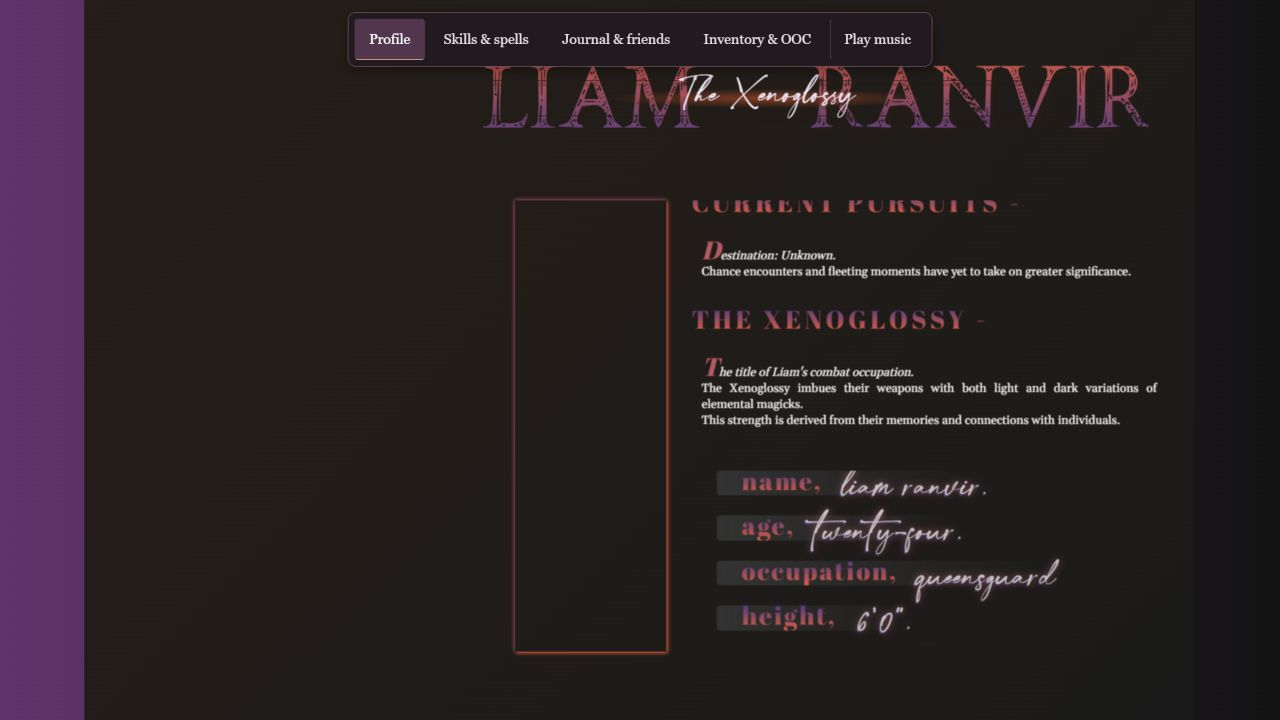
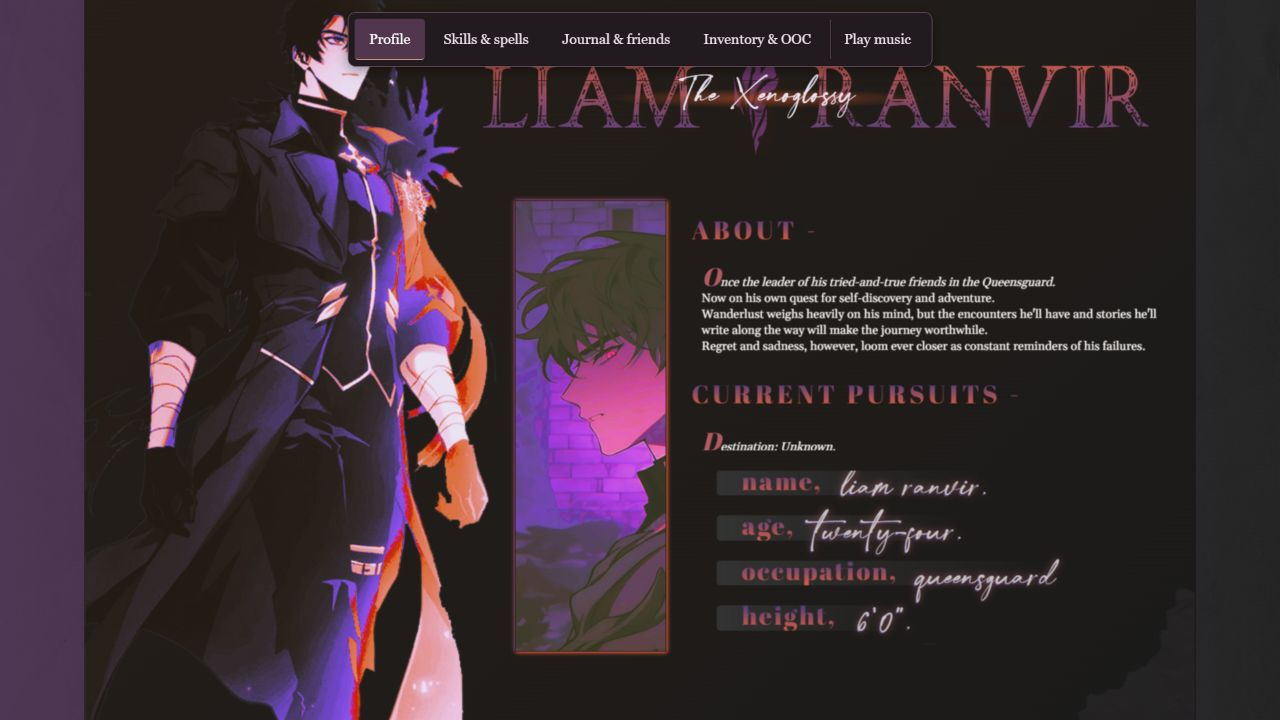
Polish portfolio presentation and update renamed repository links

diff --git a/ranvir/CASE-STUDY.md b/ranvir/CASE-STUDY.md
@@ -2,9 +2,11 @@
 
 **Personal project · UI design and front-end development · HTML, CSS, JavaScript**
 
-[View live project](https://stevenkhuu91.github.io/front-end-projects/ranvir/) · [Project overview](README.md) · [Source code](index.html)
+[View live project](https://stevenkhuu91.github.io/liam-ranvir-profile/ranvir/) · [Project overview](README.md) · [Source code](index.html)
 
 ![Ranvir's desktop profile with layered artwork and a persistent section menu](docs/images/desktop-profile.png)
+
+[Take a short visual walkthrough](docs/WALKTHROUGH.md) to see the current interface in use.
 
 ## Context
 
@@ -66,7 +68,7 @@ The original single-file implementation was separated into HTML, CSS, and JavaSc
 
 ## Before and after
 
-These screenshots compare real repository revisions at the same 1280 × 720 desktop viewport. External artwork did not render in this local preview session; the images document the interface and text changes, not the complete art presentation shown above. Historical screenshots retain the wording from their source revisions.
+These screenshots compare real repository revisions at the same 1280 × 720 desktop viewport. The historical local previews omit external artwork; the updated after screenshots were captured from the live site with artwork visible on September 17, 2026. Missing artwork in the before images is a preview limitation, not a design change. Historical screenshots retain the wording from their source revisions.
 
 ### Navigation: visible choices instead of discovery by scrolling
 
@@ -78,7 +80,7 @@ These screenshots compare real repository revisions at the same 1280 × 720 desk
 
 ![After: persistent section menu above the profile](docs/images/navigation-after.png)
 
-Before source: [6b4d348](https://github.com/StevenKhuu91/front-end-projects/commit/6b4d348). After: the desktop accessibility revision documented below. This comparison records an implementation change, not a measured improvement from user testing.
+Before source: [6b4d348](https://github.com/StevenKhuu91/liam-ranvir-profile/commit/6b4d348). After: the live implementation at `ab1386c`, captured September 17, 2026. This comparison records an implementation change, not a measured improvement from user testing.
 
 ### Readability: separate headings from body copy
 
@@ -90,7 +92,7 @@ Before source: [6b4d348](https://github.com/StevenKhuu91/front-end-projects/comm
 
 ![After: distinct headings and readable descriptions](docs/images/readability-after.png)
 
-Before source: [a956555](https://github.com/StevenKhuu91/front-end-projects/commit/a956555). After: the desktop accessibility revision documented below. These spacing improvements were made in earlier revisions; this documentation pass records their effect.
+Before source: [a956555](https://github.com/StevenKhuu91/liam-ranvir-profile/commit/a956555). After: the live implementation at `ab1386c`, captured September 17, 2026. These spacing improvements were made in earlier revisions; this documentation pass records their effect.
 
 ### Focused desktop accessibility follow-up
 
@@ -121,8 +123,7 @@ A trial of standards-mode HTML shifted the skills subtitle by about nine pixels.
 ## Remaining work
 
 - Observe a few desktop users finding a section, reading an ability, and switching friends; use those observations to identify remaining friction.
-- Extend the focused keyboard and contrast review to additional desktop browsers and a screen reader; reassess decorative gradient text if the visual design is revisited.
-- Complete source attribution for external artwork and music, and document any verified reuse permissions.
+- Reassess decorative gradient text if the visual design is revisited.
 - Review legacy CSS and rendering-mode dependencies carefully before modernizing them.
 
 A responsive redesign remains outside the current scope.

diff --git a/README.md b/README.md
@@ -1,9 +1,17 @@
-# Front End Projects
+# Liam Ranvir
 
-## Ranvir Character Profile
+**Character profile · UI design & front-end development · Personal project**
 
-A desktop character-profile website created for an online roleplaying community. It combines original character writing, layered visual design, horizontal navigation, and HTML, CSS, and vanilla JavaScript.
+![Ranvir's skills section with layered character artwork and persistent navigation](ranvir/docs/images/readability-after.png)
 
-**[View live project](https://stevenkhuu91.github.io/front-end-projects/ranvir/)** · **[Case study](ranvir/CASE-STUDY.md)** · **[Project overview and source](ranvir/README.md)**
+An expressive character profile for an online roleplaying community, built with HTML, CSS, and vanilla JavaScript. I combined original character writing with a layered visual interface, then refined navigation and readability while preserving its desktop composition.
 
-Designed for desktop viewing. My contributions are the character, narrative, layout, and website implementation; third-party artwork remains credited separately in the project overview.
+**My role:** Character and narrative, interface layout, and front-end implementation.
+
+**Design constraint:** Keep the fixed desktop composition intact while making the profile easier to explore.
+
+**[Read the case study →](ranvir/CASE-STUDY.md)**
+
+Explore the design decisions, before-and-after comparisons, validation, and lessons learned.
+
+[Try the desktop demo](https://stevenkhuu91.github.io/liam-ranvir-profile/ranvir/) · [View the visual walkthrough](ranvir/docs/WALKTHROUGH.md) · [Setup and source](ranvir/README.md)

diff --git a/ranvir/docs/WALKTHROUGH.md b/ranvir/docs/WALKTHROUGH.md
@@ -1,0 +1,25 @@
+# A quick look at Ranvir
+
+[Open the desktop demo](https://stevenkhuu91.github.io/liam-ranvir-profile/ranvir/) · [Read the full case study](../CASE-STUDY.md)
+
+## 1. Meet the character
+
+The profile combines a character introduction with layered imagery. Use the persistent menu to move between the four sections.
+
+![Profile introduction and section navigation](images/navigation-after.png)
+
+## 2. Explore an ability
+
+Choose **Skills & spells**. Scroll inside the description panel to read the abilities while the surrounding composition stays in place.
+
+![Skills section with artwork and separated headings and descriptions](images/readability-after.png)
+
+## 3. Meet the companions
+
+Choose **Journal & friends**. Eris appears initially; select Blix to switch the companion shown in the same frame.
+
+![Journal and the initially selected companion Eris](images/desktop-journal.png)
+
+Screenshots captured from the live desktop site at 1280 × 720 on September 17, 2026. External media and fonts can render differently between sessions.
+
+**What informed these choices?** The [case study](../CASE-STUDY.md) explains the original problem, design constraints, revisions, evidence, and lessons learned.

diff --git a/ranvir/README.md b/ranvir/README.md
@@ -6,7 +6,9 @@ A desktop character-profile website created for an online roleplaying community,
 
 ![Ranvir profile with layered character artwork and persistent navigation](docs/images/desktop-profile.png)
 
-**[Live demo](https://stevenkhuu91.github.io/front-end-projects/ranvir/)** · **[Case study](CASE-STUDY.md)** · **[Source code](index.html)**
+**[Live demo](https://stevenkhuu91.github.io/liam-ranvir-profile/ranvir/)** · **[Case study](CASE-STUDY.md)** · **[Source code](index.html)**
+
+[Visual walkthrough](docs/WALKTHROUGH.md) · [Concise portfolio summary](../README.md)
 
 ## Key features
 
